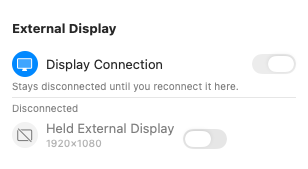
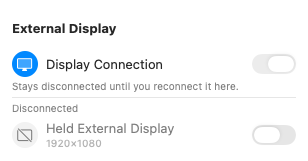
Update screenshots with right-aligned reconnect switches

diff --git a/docs/contribution-previews/README.md b/docs/contribution-previews/README.md
@@ -6,4 +6,6 @@ Display and input services are fixtures. They do not change real monitor connect
 
 Validation: https://github.com/Blazetes/Crisp/actions/runs/37586562363
 
+Final single-switch alignment (22e17ab): https://github.com/Blazetes/Crisp/actions/runs/37588176832/attempts/2
+
 These previews verify the row layout and translated strings. They are not screenshots of a deployed Crisp build and do not establish real hardware behavior.
